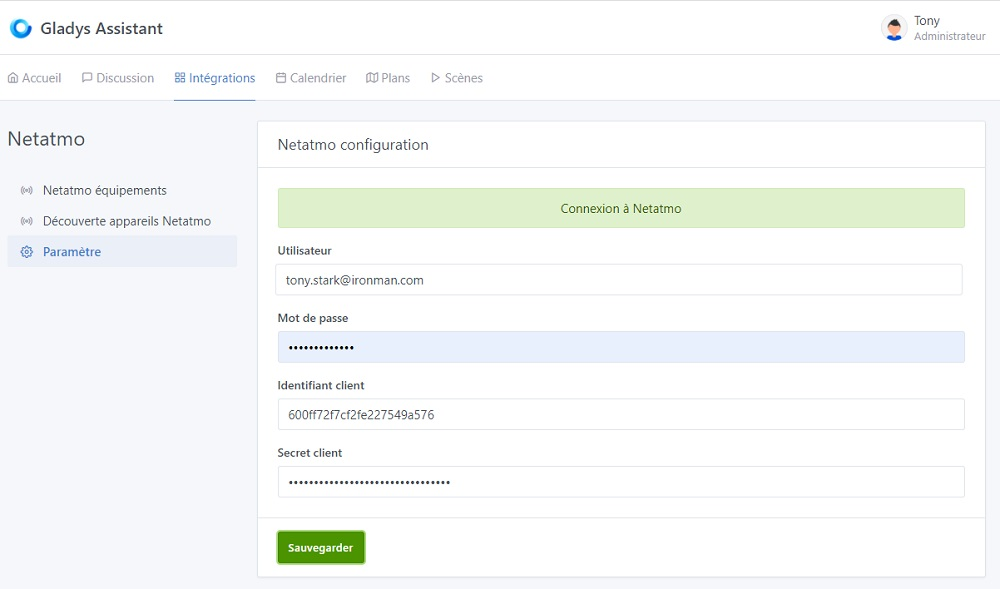
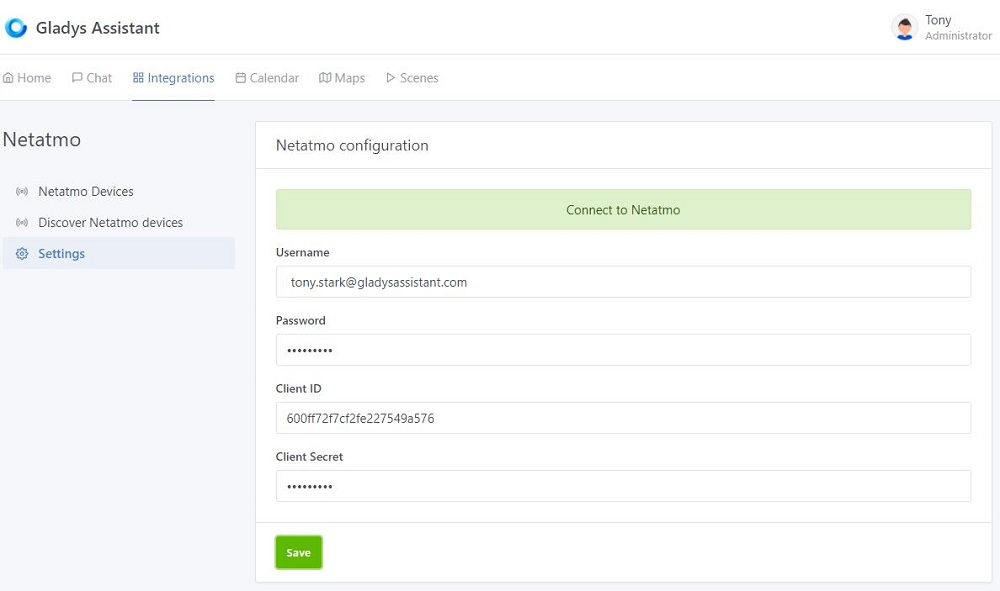
End update EN and FR - Ask review

diff --git a/en/sidebars.js b/en/sidebars.js
@@ -14,6 +14,7 @@ module.exports = {
       "integrations/sonoff",
       "integrations/tasmota",
       "integrations/philips-hue",
+      "integrations/netatmo",
       "integrations/mqtt",
       "integrations/tp-link",
       "integrations/owntracks",

diff --git a/fr/docs/integrations/netatmo.md b/fr/docs/integrations/netatmo.md
@@ -8,37 +8,45 @@ sidebar_label: Netatmo
 
 ### Etape 1 - Appareils compatibles et applications mobiles Netatmo
 
-Pour pouvoir ajouter vos appareils Netatmo dans Gladys, ceux-ci doivent au préalable être ajoutés dans leurs applications respectives que vous devrez télécharger sur le play store ou l'apple store. 
+Pour pouvoir ajouter vos appareils Netatmo dans Gladys, ceux-ci doivent au préalable être ajoutés dans leurs applications respectives que vous devrez télécharger sur le play store ou l'apple store.
 Ci-dessous ne sont référencés que les appareils compatibles avec Gladys :
 
-#### Application "Security" ![Configurer une app 1](/fr/img/docs/configuration/netatmo/configure-netatmo-application-security.jpg)
+#### Application "Security" :
+![Configurer une app 1](/fr/img/docs/configuration/netatmo/configure-netatmo-application-security.jpg)
 - Les caméras de surveillance extérieures "NOC"
 - Les caméras de surveillance intérieures "NACamera"
 - Les sirènes "NIS" associées aux caméras intérieures
 - Les capteurs d'ouverture de portes/fenêtres "NACamDoorTag"
 
-#### Application "Netatmo" ![Configurer une app 2](/fr/img/docs/configuration/netatmo/configure-netatmo-application-netatmo.jpg)
+#### Application "Netatmo" :
+![Configurer une app 2](/fr/img/docs/configuration/netatmo/configure-netatmo-application-netatmo.jpg)
 - Les stations météo "NAMain"
 - Les pluviomètres associés aux stations météo
 - Les anémomètres associés aux stations météo
 - Les hygromètres extérieurs associés aux stations météo
 - Les hygromètres intérieurs associés aux stations météo (jusque 3)
 
-#### Application "Energie" ![Configurer une app 3](/fr/img/docs/configuration/netatmo/configure-netatmo-application-energie.jpg)
+#### Application "Energie" :
+![Configurer une app 3](/fr/img/docs/configuration/netatmo/configure-netatmo-application-energie.jpg)
 - Les vannes "NRV"
 - Les thermostats "NATherm1"
 
-#### Application "Home Coach" ![Configurer une app 4](/fr/img/docs/configuration/netatmo/configure-netatmo-application-home-coach.jpg)
+#### Application "Home Coach" :
+![Configurer une app 4](/fr/img/docs/configuration/netatmo/configure-netatmo-application-home-coach.jpg)
 - Les healthy homes coach "NHC"
 
 ### Etape 2 - Netatmo connect
+
 Vous devez ensuite vous rendre sur la page [Netatmo connect](https://dev.netatmo.com/) et cliquer sur le lien "LOG IN" pour créer un compte avec votre adresse mail et un mot de passe.
+
 #### Création d'une "app"
-Rendez vous ensuite sur votre page [My app](https://dev.netatmo.com/apps/) et cliquer sur le bouton "Create" pour créer un lien vers votre compte Gladys. Entrez les informations nécessaires (champs avec une *) comme l'exemple ci-dessous :
+
+Rendez vous ensuite sur votre page [My app](https://dev.netatmo.com/apps/) et cliquer sur le bouton "Create" pour créer un lien vers votre compte Gladys. Entrez les informations nécessaires (champs avec une \*) comme l'exemple ci-dessous :
 ![Configurer une api 1](/fr/img/docs/configuration/netatmo/configure-netatmo-connect-1.jpg)
 
 #### Récupération des identifiants clients de connection
-En cliquant sur "Save", vous aurez ensuite accès aux informations nécessaires dans le cadre en-dessous (voir [Etape 1 du tutoriel](/fr/docs/integrations/netatmo#etape-1--page-netatmo-connection))
+
+En cliquant sur "Save", vous aurez ensuite accès aux informations nécessaires dans le cadre en-dessous (voir [Etape 1 du tutoriel](/fr/docs/integrations/netatmo#etape-1--connexion-api-netatmo))
 ![Configurer une api 2](/fr/img/docs/configuration/netatmo/configure-netatmo-connect-2.jpg)
 
 ## Tutoriel
@@ -47,15 +55,17 @@ Pour ajouter vos appareils Netatmo dans Gladys, allez dans `Intégrations / Neta
 ![Integration Netatmo](/fr/img/docs/configuration/netatmo/integrations-netatmo.jpg)
 
 ### Etape 1 : Connexion API Netatmo
-Depuis l'onglet `Paramètre`, 
+
+Depuis l'onglet `Paramètre`,
 ![Integration Netatmo - Vers Paramètre](/fr/img/docs/configuration/netatmo/integrations-netatmo-vers-parametre.jpg)
-Entrez les informations récupérées lors de [l'étape précédente](/fr/docs/integrations/netatmo#r%C3%A9cup%C3%A9ration-des-identifiants-clients-de-connection) : 
+Entrez les informations récupérées lors de [l'étape précédente](/fr/docs/integrations/netatmo#etape-2---netatmo-connect) :
+
 - Entrez votre adresse mail de connection à votre compte "Netatmo connect"
 - Le mot de passe de ce même compte
 - Le client ID,
 - Le client secret,
 
-Enfin cliquez sur "Sauvegarder". 
+Enfin cliquez sur "Sauvegarder".
 Après quelques secondes, vous devriez maintenant être connecté avec l'API Netatmo.
 ![Integration Netatmo - Paramètre](/fr/img/docs/configuration/netatmo/integrations-netatmo-parametre.jpg)
 
@@ -64,13 +74,16 @@ Après quelques secondes, vous devriez maintenant être connecté avec l'API Net
 Dans l'onglet `Découverte appareils Netatmo`,
 ![Integration Netatmo - Découverte](/fr/img/docs/configuration/netatmo/integrations-netatmo-decouverte-appareils.jpg)
 
-Vous retrouvez tous les appareils que vous aviez précédemment configurés sur [les applications](/fr/docs/integrations/netatmo#application-security). Ils sont référencés par leur nom défini dans leur application respective. Vous pouvez intégrer ceux-ci d'un simple clique sur le bouton "Ajouter". Ils disparaissent alors de la liste. 
+Vous retrouvez tous les appareils que vous aviez précédemment configurés sur les différentes applications [de l'étape 1 des prérequis](/fr/docs/integrations/netatmo#etape-1---appareils-compatibles-et-applications-mobiles-netatmo). Ils sont référencés par leur nom défini dans leur application respective. Vous pouvez intégrer ceux-ci d'un simple clique sur le bouton "Ajouter". Le bouton passent alors en "Déjà créé".
 
-En effectuant un rafraichissement de la page (touche F5 ou via le navigateur), les appareils précédemment installés se retrouvent en fin de liste et le bouton "Ajouter" est remplacé par une case "Déjà créé". Cette dernière est désactivée pour le moment et fera partie d'une prochaine mise à jour.
+![Integration Netatmo - Découverte - Déjà créé](/fr/img/docs/configuration/netatmo/integrations-netatmo-decouverte-appareils-deja-cree.jpg)
 
-![Integration Netatmo - Paramètre](/fr/img/docs/configuration/netatmo/integrations-netatmo-decouverte-appareils-deja-cree.jpg)
+Sur cette page vous retrouvé également un bouton "Mettre à jour" pour effectuer un rafraichissement des noms des appareils en cas de changement de ces derniers dans les applications Netatmo.
 
-### Etape 3 : Définir une pièce aux appareils / Modification des fonctionnalités
+![Integration Netatmo - Découverte - Mettre à jour](/fr/img/docs/configuration/netatmo/integrations-netatmo-decouverte-appareils-mettre-a-jour.jpg)
+
+
+### Etape 3 : Définir une pièce aux appareils et modification des fonctionnalités
 
 Dans l'onglet `Appareils Netatmo`, vous retrouvez cette fois les appareils ajoutés avec leurs caractéristiques.
 
@@ -78,6 +91,50 @@ Dans l'onglet `Appareils Netatmo`, vous retrouvez cette fois les appareils ajout
 
 #### 1) Définir une pièce
 
-Pour pouvoir afficher un appareil sur le dashboard, il faut en premier lui associer une pièce. Sélectionner celle-ci dans le menu déroulant suivant :
+Pour pouvoir afficher un appareil sur le dashboard, il faut en premier lieu lui associer une pièce. Sélectionner celle-ci dans le menu déroulant suivant :
+![Netatmo Integration - Netatmo devices - Select room](/fr/img/docs/configuration/netatmo/integrations-netatmo-appareils-netatmo-selection-piece.jpg)
+Puis cliquer sur le bouton "Sauvegarder".
 
-Et voilà !
+#### 2) Modifier les fonctionnalités
+
+Vous pouvez modifier le nom d'affichage des fonctionnalités qui apparaitront sur la page d'accueil. De plus certaines fonctionnalités peuvent être affichées de différentes manière. Cliquer sur le bouton "Modifier" d'une fiche d'appareil :
+
+- L'indice de santé du Home Coach :
+
+![Integration Netatmo - Home Coach Index](/fr/img/docs/configuration/netatmo/integrations-netatmo-appareils-netatmo-modifier-home-coach.jpg)
+
+  - Affichage en chiffre de 0 à 4 :
+
+  ![Integration Netatmo - Home Coach Index-Number](/fr/img/docs/configuration/netatmo/integrations-netatmo-dashboard-home-coach-index-number.jpg)
+
+  - Ou affichage en état :
+
+  ![Integration Netatmo - Homes Coach Index-State](/fr/img/docs/configuration/netatmo/integrations-netatmo-dashboard-home-coach-index-string.jpg)
+
+- L'angle du vent de l'anémomètre de la station météo :
+
+![Integration Netatmo - Anemometer Angle](/fr/img/docs/configuration/netatmo/integrations-netatmo-appareils-netatmo-modifier-anemometre.jpg)
+
+  - Affichage en degré :
+
+  ![Integration Netatmo - Anemometer Angle-Degrees](/fr/img/docs/configuration/netatmo/integrations-netatmo-dashboard-anemometre-angle-degrees.jpg)
+
+  - Ou affichage en point cardinal :
+
+  ![Integration Netatmo - Anemometer Angle-Cardinal Point](/fr/img/docs/configuration/netatmo/integrations-netatmo-dashboard-anemometre-angle-point-cardinal.jpg)
+
+  N'oubliez pas de sauvegarder vos modifications avant de quitter la page !!
+
+## Avancement et prévision d'évolution du service
+
+### Février 2021
+
+A ce jour, les appareils suivants :
+- Détecteur de fumée "NSD",
+- Sonnette "NDB"
+
+Ne peuvent être remontés vers Gladys pour le moment car l'API ne propose pas de retour d'état. Toutefois, les "webhooks" sont en cours de développement via Gladys Plus. Pour tout ceux qui disposent d'un abonnement, il serait prochainement possible de récupérer les retours d'états de ces appareils.
+
+Les retours d'états de tous les appareils vue à [l'étape 1 des prérequis](/fr/docs/integrations/netatmo#etape-1---appareils-compatibles-et-applications-mobiles-netatmo) sont fonctionnels. Les commandes sont en cours de programmation.
+
+Et voilà ! Vous pouvez maintenant ajouter les appareils et fonctionnalités dont vous souhaitez profiter sur votre page d'accueil ou encore créer vos scènes d'alertes.

diff --git a/en/docs/integrations/netatmo.md b/en/docs/integrations/netatmo.md
@@ -6,39 +6,47 @@ sidebar_label: Netatmo
 
 ## Prerequisites
 
-### Step 1 - Compatible devices and Netatmo mobile applications
+### Step 1 - Compatible devices and mobile applications Netatmo
 
 To be able to add your Netatmo devices in Gladys, they must first be added in their respective applications that you will have to download from the play store or the Apple store.
 Below are listed only devices compatible with Gladys:
 
-#### "Security" application ![Configure an app 1](/en/img/docs/configuration/netatmo/configure-netatmo-application-security.jpg)
+#### "Security" application :
+![Configure an app 1](/en/img/docs/configuration/netatmo/configure-netatmo-application-security.jpg)
 - "NOC" outdoor surveillance cameras
 - "NACamera" indoor surveillance cameras
 - "NIS" sirens associated with indoor cameras
 - "NACamDoorTag" door / window opening sensors
 
-#### "Netatmo" application ![Configure an app 2](/en/img/docs/configuration/netatmo/configure-netatmo-application-netatmo.jpg)
+#### "Netatmo" application :
+![Configure an app 2](/en/img/docs/configuration/netatmo/configure-netatmo-application-netatmo.jpg)
 - "NAMain" weather stations
 - Rain gauges associated with weather stations
 - Anemometers associated with weather stations
 - Outdoor hygrometers associated with weather stations
 - Indoor hygrometers associated with weather stations (up to 3)
 
-#### "Energy" application ![Configure an app 3](/en/img/docs/configuration/netatmo/configure-netatmo-application-energie.jpg)
+#### "Energy" application :
+![Configure an app 3](/en/img/docs/configuration/netatmo/configure-netatmo-application-energie.jpg)
 - "NRV" valves
 - "NATherm1" thermostats
 
-#### Application "Home Coach" ![Configure an app 4](/en/img/docs/configuration/netatmo/configure-netatmo-application-home-coach.jpg)
+#### "Home Coach" application :
+![Configure an app 4](/en/img/docs/configuration/netatmo/configure-netatmo-application-home-coach.jpg)
 - "NHC" Healthy homes coach
 
 ### Step 2 - Netatmo connect
-You must then go to the [Netatmo connect](https://dev.netatmo.com/) page and click on the "LOG IN" link to create an account with your email address and a password.
+
+Then, you must go to the [Netatmo connect](https://dev.netatmo.com/) page and click on the "LOG IN" link to create an account with your email address and a password.
+
 #### Creating an "app"
-Then go to your [My app](https://dev.netatmo.com/apps/) page and click on the "Create" button to create a link to your Gladys account. Enter the necessary information (fields with an *) as the example below :
+
+Go to your [My app](https://dev.netatmo.com/apps/) page and click on the "Create" button to create a link to your Gladys account. Enter the necessary information (fields with an \*) as the example below :
 ![Configure an api 1](/en/img/docs/configuration/netatmo/configure-netatmo-connect-1.jpg)
 
-#### Retrieving connection client identifiers
-By clicking on "Save", you will then have access to the necessary information in the box below (see [Step 1 of the tutorial](/en/docs/integrations/netatmo#etape-1--page-netatmo-connection))
+#### Retrieving connection client credentials
+
+By clicking on "Save", you will then have access to the necessary information in the box below (see [Step 1 of the tutorial](/en/docs/integrations/netatmo#step-1---compatible-devices-and-mobile-applications-netatmo))
 ![Configure an api 2](/en/img/docs/configuration/netatmo/configure-netatmo-connect-2.jpg)
 
 ## Tutorial
@@ -47,9 +55,11 @@ To add your Netatmo devices in Gladys, go to `Integrations / Netatmo`.
 ![Netatmo Integration](/en/img/docs/configuration/netatmo/integrations-netatmo.jpg)
 
 ### Step 1: Netatmo API connection
-From the `Parameter` tab, 
+
+From the `Settings` tab,
 ![Netatmo Integration - To Parameter](/en/img/docs/configuration/netatmo/integrations-netatmo-vers-parametre.jpg)
-Enter the information retrieved during [the previous step](/en/docs/integrations/netatmo#r%C3%A9cup%C3%A9ration-des-identifiants-clients-de-connection) : 
+Enter the information retrieved during [the previous step](/en/docs/integrations/netatmo#step-2---netatmo-connect) :
+
 - Enter your email address for connecting to your "Netatmo connect" account
 - The password of the same account
 - The customer ID,
@@ -57,18 +67,21 @@ Enter the information retrieved during [the previous step](/en/docs/integrations
 
 Finally click on "Save".
 After a few seconds you should now be connected with the Netatmo API.
-! [Netatmo Integration - Parameter](/en/img/docs/configuration/netatmo/integrations-netatmo-parametre.jpg)
+![Netatmo Integration - Parameter](/en/img/docs/configuration/netatmo/integrations-netatmo-parametre.jpg)
 
-### Step 2: Discover Netatmo devices
+### Step 2: Discovery Netatmo devices
 
-In the `Netatmo device discovery` tab,
+In the `Discovery Netatmo devices` tab,
 ![Netatmo Integration - Discovery](/en/img/docs/configuration/netatmo/integrations-netatmo-decouverte-appareils.jpg)
 
-You will find all the devices that you had previously configured on [the applications](/en/docs/integrations/netatmo#application-security). They are referenced by their name defined in their respective application. You can integrate these with a simple click on the "Add" button. They then disappear from the list.
+You will find all the devices that you had previously configured on the different applications [from step 1 of the prerequisites](/en/docs/integrations/netatmo#step-1---compatible-devices-and-mobile-applications-netatmo). They are referenced by their name defined in their respective application. You can integrate them with a simple click on the "Add" button. The button then changes to "Already created".
 
-By refreshing the page (F5 key or via the browser), the previously installed devices are found at the end of the list and the "Add" button is replaced by a "Already created" box. The latter is disabled for the moment and will be part of a future update.
+![Netatmo Integration - Discovery - Already created](/en/img/docs/configuration/netatmo/integrations-netatmo-decouverte-appareils-deja-cree.jpg)
 
-![Netatmo Integration - Parameter](/en/img/docs/configuration/netatmo/integrations-netatmo-decouverte-appareils-deja-cree.jpg)
+On this page you will also find an "Update datas" button to refresh the device names if they are changed in Netatmo applications.
+
+![Netatmo Integration - Discovery - Update](/en/img/docs/configuration/netatmo/integrations-netatmo-decouverte-appareils-mettre-a-jour.jpg)
+
 
 ### Step 3: Define a room for the devices / Modify the functionalities
 
@@ -78,6 +91,51 @@ In the `Netatmo devices` tab, this time you will find the added devices with the
 
 #### 1) Define a room
 
-To be able to display a device on the dashboard, a part must first be associated with it. Select it in the following drop-down menu:
+To be able to display a device on the dashboard, you must first associated a room to it. Select it in the following drop-down menu:
+![Netatmo Integration - Netatmo devices - Select room](/en/img/docs/configuration/netatmo/integrations-netatmo-appareils-netatmo-selection-piece.jpg)
 
-And There you go !
+Then click on the "Save" button.
+
+#### 2) Modify features
+
+You can change the display name of the features that will appear on the home page. In addition, some features can be displayed in different ways. Click on the "Modify" button of a device plug :
+
+- The index health of the Home Coach: 
+![Integration Netatmo - Home Coach Index](/en/img/docs/configuration/netatmo/integrations-netatmo-appareils-netatmo-modifier-home-coach.jpg)
+  - Display in numbers from 0 to 4:
+
+  ![Integration Netatmo - Home Coach Index-Number](/en/img/docs/configuration/netatmo/integrations-netatmo-dashboard-home-coach-index-number.jpg)
+
+  - Or display in state:
+
+  ![Integration Netatmo - Homes Coach Index-State](/en/img/docs/configuration/netatmo/integrations-netatmo-dashboard-home-coach-index-string.jpg)
+
+- The wind angle of the weather station anemometer 
+![Integration Netatmo - Anemometer Angle](/en/img/docs/configuration/netatmo/integrations-netatmo-appareils-netatmo-modifier-anemometre.jpg)
+
+  - Display in degrees:
+
+  ![Integration Netatmo - Anemometer Angle-Degrees](/en/img/docs/configuration/netatmo/integrations-netatmo-dashboard-anemometre-angle-degrees.jpg)
+
+  - Or display in cardinal point:
+
+  ![Integration Netatmo - Anemometer Angle-Cardinal Point](/en/img/docs/configuration/netatmo/integrations-netatmo-dashboard-anemometre-angle-point-cardinal.jpg)
+
+  Don't forget to save your changes before leaving the page !!
+
+## Progress and forecast of service evolution
+
+### February 2021
+
+To date, the following devices :
+- Smoke detector "NSD",
+- Bell "NDB"
+
+Cannot be traced back to Gladys for the moment because the API does not offer status feedback. However, the "webhooks" are under development via Gladys Plus. For all those who have a subscription, it will soon be possible to retrieve the status feedbacks of these devices.
+
+The status feedbacks of all the devices seen in [step 1 of the prerequisites](/en/docs/integrations/netatmo#step-1---compatible-devices-and-mobile-applications-netatmo) are functional. The controls are being programmed.
+
+You're done! You can now add the devices and features you want to enjoy on your home page or create your alert scenes.
+
+
+
